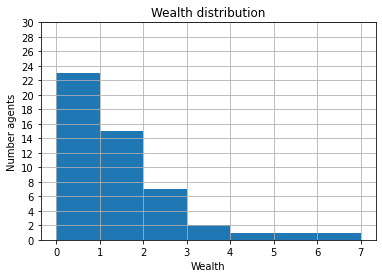
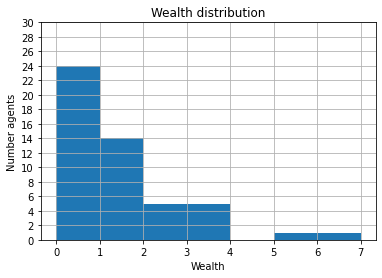
Update documentation

diff --git a/searchindex.js b/searchindex.js
@@ -1,1 +1,1 @@
-Search.setIndex({docnames:["docs/agent","docs/data_analysis","docs/installation","docs/intro","docs/jupyter","docs/math","docs/ode","docs/pandas","docs/project","docs/python","docs/references"],envversion:{"sphinx.domains.c":2,"sphinx.domains.changeset":1,"sphinx.domains.citation":1,"sphinx.domains.cpp":3,"sphinx.domains.index":1,"sphinx.domains.javascript":2,"sphinx.domains.math":2,"sphinx.domains.python":2,"sphinx.domains.rst":2,"sphinx.domains.std":2,"sphinx.ext.intersphinx":1,"sphinxcontrib.bibtex":7,sphinx:56},filenames:["docs/agent.ipynb","docs/data_analysis.ipynb","docs/installation.md","docs/intro.md","docs/jupyter.ipynb","docs/math.md","docs/ode.ipynb","docs/pandas.ipynb","docs/project.md","docs/python.ipynb","docs/references.md"],objects:{},objnames:{},objtypes:{},terms:{"0000":0,"000000":[1,7],"0001":6,"0002":9,"00233":10,"004038":1,"0160":[],"018":10,"025000":1,"033651":1,"038643":1,"050000":1,"0691":[],"07196":10,"088701":1,"092252":1,"0960":[],"0996":9,"100":[0,1,6,9],"1000":[6,9],"100000":1,"101":[0,1],"1021":10,"1038":10,"1069":[],"1070":[],"1071":[],"1072":[],"1073":[],"1111":10,"1112":[],"1200":6,"125":10,"130":6,"130360":1,"1331":[],"133728":1,"1415":9,"145":10,"1457":[],"146":[],"1472":[],"150000":1,"156618":1,"157676":1,"162":9,"1751":10,"1960":5,"1990":1,"1998":10,"1999":1,"1pigvvn":10,"200":6,"2000":[1,6],"200000":1,"2006":1,"2007":1,"2009":[1,10],"2010":[1,10],"2011":[1,10],"2013":10,"2014":1,"2015":[1,10],"2016":[1,10],"2018":[1,10],"2020":1,"2021":1,"20210722":9,"20210802":9,"2022":3,"2032":[],"205":9,"215":1,"217":1,"219":1,"2191":[],"223":1,"237":1,"2408":[],"241":1,"2438":[],"2456":0,"250":1,"250000":1,"251366":1,"253":1,"257525":1,"2610":9,"2688":[],"271600":1,"278":1,"279":1,"280747":1,"287":1,"289":1,"2899":[],"2903865095":[],"293":1,"297":[],"298":1,"2980":[],"299":1,"300":[],"3000":6,"300000":1,"301":[],"3016":[],"3058":[],"315":[],"3200":0,"324111":1,"325000":1,"3272":[],"3318":[],"333":1,"334":[],"335":[],"336":1,"337":[],"338":1,"340200":1,"341":1,"3432":[],"347122":1,"3479":[],"350000":1,"350853":7,"3512":[],"354":1,"3540":[],"3559":[],"3620":[],"3648":[],"3649":[],"365":6,"3671":[],"370426":1,"373171":1,"3736":[],"3808":[],"3843":[],"3944":[],"3952":[],"3970":[],"399070":1,"400000":1,"4024":[],"4031":[],"4104":[],"412109":1,"4122":[],"4136":[],"4179":[],"4200":[],"4224":0,"4232":[],"426484":1,"4281":9,"4416":0,"441611":1,"4488":[],"450000":1,"455102":1,"4576":[],"464575":1,"4664":[],"4744":[],"4760":[],"4792":[],"4799":[],"4832":[],"4840":[],"4968":[],"500":6,"5000":[0,6,9],"500000":[1,7],"5070":[],"509417":1,"510":[],"515":[],"5160":[],"5171":[],"518":10,"518125a":10,"520":[],"5224":[],"530978":1,"536":[],"5376":[],"539135":1,"540502":1,"546921":1,"5489":[],"555":[],"560":[],"563":10,"5631":[],"5682":[],"572":10,"575000":1,"5780":[],"5830":[],"584":10,"5972":[],"5h8mb6gs32nbvf3w8cyqwrhm0000gn":[],"600":6,"6000":[],"600000":1,"610599":1,"616996":1,"623207":1,"630942":1,"6451":[],"647525":1,"649":[],"650":[],"651":[],"652":[],"653":[],"657":[],"670":[],"675":[],"681":[],"700000":1,"701427":1,"715":9,"717":[],"717297":1,"720759":1,"724":[],"726":[],"730":[],"731":[],"733":[],"736":[],"7413":[],"750000":1,"756951":1,"767577":1,"7729":[],"777":[],"785886":1,"788136":1,"7915":10,"796997":1,"797924":1,"7989":[],"800":6,"800000":1,"8068":[],"812":[],"815979":1,"8287":[],"841860":1,"842":[],"850000":1,"871770":1,"8890":[],"898512":1,"900000":1,"9069":[],"9190":[],"935561":1,"947":[],"948":[],"949":[],"950":[],"950000":1,"950246":1,"951":[],"959443":1,"975000":1,"9991":[],"9999":9,"9c481e3f9eab":[],"case":[1,6,9],"class":[0,5,6,7],"default":[2,6,9],"export":7,"f\u00f6r":8,"final":[0,3,4,6],"float":9,"function":[0,4,6,7],"import":[0,1,3,4,5,6,7],"int":[0,9],"long":[1,8],"new":[2,8,9],"return":[0,6,9],"short":[1,6,8,9],"static":6,"super":0,"true":[0,6,7,9],"try":8,"v\u00e4gledn":8,"var":[],"while":[6,8],AZE:1,Axes:9,But:1,DHS:1,For:[1,6,9],MIS:1,Not:9,ODEs:3,One:[3,9],The:[0,1,2,3,5,6,7,8,9],Their:8,There:[0,5,6,9],These:[0,1,9],With:6,__init__:[0,6,9],_base:[],_decor:[],a_list:9,abil:8,abm:[0,3,5],about:[1,9],abov:[6,9],academia:8,acceler:1,access:[3,9],accomplish:[9,10],accord:[6,8,9],accumul:[0,6,9],act:[0,5],action:[0,8],activ:[2,8],actual:1,adapt:5,add:0,addit:[2,6,7,9],adopt:[3,9],advanc:5,advic:1,affect:[1,5],afg:1,afghanistan:1,africa:1,after:[0,9],against:1,age:1,agent:[3,5,8,9],agent_df:0,agent_idx:0,agent_report:0,agent_wealth:0,agentid:0,ago:1,air:6,alb:1,albania:1,alc_with_lowest_bp:9,alcohol:9,algorithm:9,alic:7,align:[5,6,9],alik:8,all:[0,1,3,5,8,9],allow:[0,2,3,4,6,7],allowfullscreen:[],almost:9,alongsid:1,alpha:[1,5,6],alreadi:[8,9],also:[0,1,4,5,6,7,9],altern:[6,9],alwai:9,among:1,amount:[8,9],amp:1,amsterdam:1,anaconda:2,analysi:[0,7,9,10],analyt:9,andersen:[8,10],angola:1,ani:[1,3,8],anlys:7,anoth:6,appeal:5,appear:[5,6],append:[1,6],applic:[4,5],approach:[3,5,6],approx:6,approxim:[6,8],arang:4,area:[1,3,9],arg:6,arguabl:3,argument:[6,9],around:[0,5],arrai:6,arrang:9,artist:9,as13:[3,8,10],ascend:7,asia:1,assert:[],associ:[6,9],asterisk:2,atla:1,attribut:[0,1,9],author:[3,9],auto:9,automat:[7,9],autonom:0,autosc:9,avail:[1,3,4,6,9],averag:[1,7],axes:[1,6],axhlin:[4,7],axi:9,azerbaijan:1,b_dict:9,back:5,bai98:[5,8,10],bailei:[5,8,10],bank:1,bar:[7,9],barcontain:9,barh:9,barri:8,barstack:9,base:[2,3,5,8,9],basic:[3,5,6,9],bb1220:3,beatric:7,becom:[1,3,6],been:[1,9],begin:[0,2,5,6],behav:[8,9],behavior:0,behaviour:5,belong:0,below:[0,4,9],benefit:[7,9],best:3,beta:[5,6],better:[1,3,6],between:[8,9],big:[0,6],bin:[0,1,9],binari:[],biochem:[8,10],biolog:[5,6,8],biologi:[3,10],biologist:8,biotech:10,biotechnolog:[3,5,10],bit:2,blood:8,blueprint:9,bodi:8,boil:9,bone:8,book:[3,8,9],bool:9,bordel:10,both:[0,4,5],bottom:9,bp9701269:10,browser:[2,4],build:[0,5],built:[7,9],bygg:10,c6h11oh:9,c6h5:9,calcul:[0,9],call:[6,8],can:[0,1,2,4,5,6,7,8,9],cannot:9,canva:3,capit:9,care:[],catalyst:8,catalyz:8,categori:0,cb1020:3,cbn11:[5,8,10],ceasar:7,cell:[0,1,2,8,10],cellmat:0,cellular:8,celsiu:9,center:9,central:[1,6],certain:[6,7],certifi:2,ch2oh:9,ch3:9,ch3oh:9,chanc:9,chang:[4,6],chapter:8,chart:9,checkpoint:4,chemic:[8,9],child:1,children:1,choh:9,choic:[0,3,6,9,10],choos:[1,3],chosen:9,circ:6,circl:6,clean:7,cleans:1,clear:[1,5,9],clearli:1,cleft:8,close:1,cluster:1,code:[1,2,3,9],coeffici:[0,5],coher:9,collect:[1,5,6],collector:0,color:[0,1,4,7,9],column:[0,1,7,9],colunm:1,com:10,combin:[4,9],come:[2,4,6],comma:7,command:[2,4],comment:4,common:[1,8,9],commun:[8,9],compar:[1,4,9],comparison:[6,9],compart:8,complex:[5,8,9],compon:8,compos:5,compound:8,compress:[],comput:[0,2,5,6,9,10],compute_gini:0,concern:[6,9],conda:2,conduct:[3,6],conjunct:9,connect:8,consequ:1,consid:[1,6],constant:6,construct:7,constructor:9,contain:[0,1,2,4,6,8,9],content:[],content_or_path:[],contrast:8,contribut:[3,9],control:[1,7],conveni:[6,9],convent:[1,4,9],convert:[0,4],convert_float:[],copi:4,copyright:1,core:10,corei:9,cornerston:5,correspond:[1,6,7],cost:6,could:8,count:[1,7,9],counterpart:8,countri:1,coupl:1,cours:[3,6,8],coverag:1,creat:[0,2,3,5,6,9],creation:9,cross:[0,8],csv:7,ctrl:4,cumul:9,curat:1,current:0,cursor:4,cvijov:[5,8,10],cyclohexanol:9,d2u_dx2:6,d41586:10,dai:6,damp:6,dash:4,data1:9,data2:9,data:10,data_dc:1,data_input:1,data_itn:1,databas:1,datacollect:0,datacollector:0,datafram:[0,1],datapoint:9,dataset:9,date:[3,5],date_pars:[],dator:10,david:7,dea:1,death:6,decis:[3,5],decreas:6,deepen:3,def:[0,6,9],defin:[0,6,9],degre:9,delivar:3,delta:[5,6],demograph:1,denot:6,densiti:9,depend:[2,4],depict:6,deriv:[0,4,6],describ:[1,5,6,7,9],descript:[1,3,9],design:8,detail:[4,9],determin:[0,8],develop:[8,9],deviat:9,df_dc:1,df_itn:1,diagon:0,diarcar:1,diarrhoea:[],dictionari:9,dictonari:[7,9],did:6,diff:9,differ:[0,1,3,8,9],differenti:[3,5],difficult:[1,5],diffus:[6,8],dimens:9,dimension:[6,9],dire:1,direct:9,directori:[],disciplinari:8,discoeri:1,discov:1,discret:6,discuss:3,diseas:[5,8],displai:[1,7,9],disposit:8,distinguish:8,distribut:[0,9],divid:[6,9],doan:9,doc:[2,3],document:[3,4],doi:10,doing:[4,6],dot:9,download:1,draw:9,drawn:9,drive:3,dropbox:3,dtype:[7,9],due:6,dure:1,dydt:6,dynam:[5,6],each:[0,3,9],earli:5,eastern:1,eat:8,ecaro:1,ecosystem:8,edg:9,edit:[3,4,10],effect:9,effici:9,either:9,element:[4,7,8,9],elementari:4,elif:[],els:8,emb:[],empti:[0,1,9],enabl:[1,2,6,8,9],encapsul:9,encod:[],end:[3,5,6,9],engin:[3,6,7,8,9,10],enter:[0,2,4],entiti:0,enumer:[0,9],env:2,environ:[1,2,5,8],enzym:8,epidemiolog:5,equal:[1,5,6,7,9],equat:[3,4,5],equip:9,erl:10,errno:[],error:6,esaro:1,etc:[1,4,7,9],ethanol:9,euler_step:6,europ:1,eva:10,even:9,everi:[0,3,6,8,9],everyon:1,everyth:[8,9],evid:6,evolut:6,exact:6,exam:7,examin:7,exampl:[1,3,6,9],excel:[1,7,8],excelfil:[],except:9,exchang:8,excitatori:8,exclud:9,execut:[2,9],exemplifi:[1,6],exhaust:3,exlibrisgroup:10,exp:[6,9],expect:[8,9],experi:[3,9],experiment:1,explain:[4,5],expos:0,ext:[],extens:[4,9],extract:[0,1],facil:1,fact:1,factor:9,factori:10,fals:[0,9],false_valu:[],famili:6,famou:8,far:[3,4],farg:6,fast:[1,9],faster:[8,9],favorit:9,feel:[8,9],femal:1,few:2,field:[1,5],fig:[1,4,6],fignam:9,figsiz:[1,4,6],figur:[1,4,6],file:[1,4,7,9],filenotfounderror:[],fill:[3,9],fill_between:1,filter:9,final_wealth_df:0,find:[0,6,8,9],first:[0,1,6,7,8,9],five:1,fix:9,flexibl:9,float64:7,focal:3,focu:[3,5],folder:3,follow:[1,2,4,8,9],forest:5,forg:2,form:[1,3,4,8,9],format:[3,4,7,9],former:5,formula:9,fourth:[1,6],frac:[0,5,6,9],fraction:9,frame:6,frame_numb:6,framebord:[],framework:0,free:[8,9],freeli:1,friction:6,from:[0,1,2,3,4,5,6,8,9],func:[],funcanim:6,fund:1,further:[1,4,5],futur:[3,8,10],futurewarn:[],gamma:[5,6],gather:1,gaussian:9,gca:[0,4,6,7,9],gender:1,gener:[0,3,6,8,9],genom:1,genrer:8,geometr:9,geometri:9,get:[2,4,6,9],get_agent_vars_datafram:0,get_cell_list_cont:0,get_handl:[],get_model_vars_datafram:0,get_neighborhood:0,gini:0,github:10,give:[0,9],give_monei:0,given:[1,3,6,9],gledn:10,global:0,goal:1,good:[3,6,8,9],googl:3,govern:[0,1],gradual:6,granular:5,great:9,greater:[6,9],grei:1,grid:[0,6,9],ground:8,group:[0,1,3,8],grow:1,growth:6,guid:8,guidelin:3,had:1,half:9,handl:[0,7],harmon:6,has:[0,6,7,8,9],have:[1,3,4,8,9],head:[0,1,7],header:1,health:1,heattransferwal:6,height:[0,9],help:1,herod:[3,8,10],heurist:5,hierarch:3,high:9,higher:6,highli:9,hist2d:9,hist:[0,1,9],histogram:[1,9],histogram_bin_edg:9,histtyp:9,hiv:8,hold:0,horizont:9,host:10,howev:[3,5,6,9],html:2,http:[2,10],human:[1,4],hw29067qvwk:[],hypothesi:1,idea:[1,9],ident:9,identifi:[1,6],idx_dc:1,idx_itn:1,idxmax:0,ifram:[],ignor:9,iii:[3,6],ill:1,illustr:[1,5,6],imagin:9,immedi:1,implement:[0,3,4,6,9],includ:[0,2,4,8,9],include_cent:0,incom:1,increas:[0,5,6],increment:9,independ:9,index:9,index_col:[],indic:[0,1,2,5],indispens:9,individu:[0,3,5,9],industri:[5,8,10],infect:8,infecti:5,inform:[1,8],informaion:1,inhibitori:8,initi:6,ink:8,input:9,insecticid:[],inspect:1,inspect_excel_format:[],inspir:[5,8],instanc:[5,9],instanti:0,instead:9,integ:[0,9],integr:[6,9],intel:9,interact:[0,2,5,6,8],interest:8,interfac:[0,4],intermedi:6,internet:1,interneuron:8,interpret:9,interrel:1,interv:[4,6],introduc:[1,4,6,8,9],introduct:[5,8,9,10],intuit:[1,3,9],invest:8,investig:1,invit:[6,9],involv:[1,6],ioarg:[],ipykernel_51278:[],ipykernel_57799:[],ipykernel_57878:[],ipynb:4,ipython:[],is_text:[],isinst:[],iso:1,isol:9,isopropanol:9,issu:[],item:9,iter:1,iterrow:1,itn:1,its:[0,1,4,6,8,9],itself:8,jake:[9,10],jakevdp:10,jame:10,javascript:0,jeffrei:10,jen:10,json:4,juli:1,jupyt:[1,2,9,10],jupyterlab:2,just:1,k_1:6,k_2:6,k_3:6,k_4:6,keep:3,keep_default_na:[],kei:[4,5,6,9],kept:9,kernel:9,keyword:9,kind:7,kinet:8,kit:1,knowhow:8,knowledg:6,known:[1,6,9],kth:[3,10],kurslitteratur:10,kvalitet:10,kwarg:9,label:[6,9],lambda:6,landscap:0,languag:3,larg:[1,2,8,9],last:[0,9],latent:8,latest:2,launch:0,ldot:0,lead:8,leader:3,leadership:3,learn:[1,5,8],least:3,leav:[1,4],left:[1,9],legend:[6,9],len:[0,9],length:9,leq:[0,6],less:[1,6,9],let:[0,1,6,9],level:[0,8],lib:[],librari:9,life:[1,8],lightgrei:7,like:[7,8,9],limit:[3,5,6,7,8],limt:0,line2d:6,line:[2,4,6,7,9],linear:6,lineplot:9,linewidth:[4,9],link:4,linspac:6,linux:[2,9],list:[0,1,2,3,4,7,9],live:8,load:[1,3],locat:9,log:[3,9],logic:9,look:1,loop:9,lotka:[5,6],lotka_volterra:6,low:1,lower:[1,9],lowest:9,lowest_bp:9,maco:[2,9],macroscop:5,made:[1,3,5,6,9],magnitud:9,mai:[1,4,5,6,8,9],main:5,make:[1,3,4,5,6,8],makinng:5,male:1,mammal:8,manag:[0,2],mangle_dupe_col:[],mani:8,manipul:9,manner:4,mapl:[3,10],marija:10,mark:[2,3],markdown:4,mask:9,match:[1,9],materi:[3,8],math:9,mathbf:6,mathemat:[3,4,6,8,9,10],matlab:[3,10],matmul:9,matplotlib:[0,1,2,4,6,7,9],matric:9,matrix:9,max:[0,1,7,9],max_column:1,max_wealth:0,maximum:0,mean:[1,3,6,7,9],mechan:[1,6],mediat:8,medium:6,meet:3,member:[3,5,6],membership:9,membran:8,memory_map:[],mentor:3,merg:[4,7],mesa:[2,9],metabol:8,metal:8,methanol:9,method:[0,1,3,4,7,9],metric:0,mic:1,microbi:10,microscop:5,microsoft:[3,7],mid:9,middl:1,min:[1,6,7,9],miniconda3:[],miniconda:2,minim:2,minor:3,minut:3,mixtur:8,mkl:9,mode:4,model:[3,8,9,10],model_df:0,model_report:0,moder:8,modern:5,modifi:[1,2],modul:[0,1,4,7],modulenotfounderror:[],molecul:8,moneyag:0,moneymodel:0,moor:0,more:[1,4,5,6,9],mosquito:[],most:[3,5,6,7,9],move:[0,10],move_ag:0,movement:8,msg:[],much:8,mulitpl:9,multi:[3,9],multigrid:0,multipl:[0,1,2,9],multistep:8,multpil:1,must:[1,9],myenv:2,na_filt:[],na_valu:[],name:[1,2,3,5,6,7,9],nan:1,nation:1,natur:[5,6,9,10],navig:1,nbin:9,ndarrai:9,necessari:1,need:[3,6,8,9],nest:1,net:[],neuron:8,neurotransmitt:8,never:9,new_posit:0,newtonian:6,nhigher:1,nice:1,nielsen:10,night:1,non:[0,9],none:[1,9],nonliv:8,nontrivi:6,nonzero:0,normal:[8,9],note:9,notebook:[1,2,6,9,10],notic:1,nov:[],now:2,nrow:[],num:6,num_ag:0,number:[0,1,2,5,9],number_el:6,numer:[5,9],numpi:[2,4,6,9],object:[6,7],observ:[1,8],obtain:[3,6],obviou:5,obvious:9,occupi:8,occur:[0,8],och:10,odeint:6,offer:9,offic:3,omnipres:8,onc:8,one:[0,2,3,4,6,9],one_agent_wealth_df:0,onedr:3,ones:[6,9],onli:[1,2,6,8,9],open:[2,9],openmp:9,opportun:[6,10],opt:[],optim:9,option:9,orbit:6,order:[0,6,9],ordinari:3,org:[],organ:[0,4,8],orient:6,oscil:6,other:[0,1,2,4,8,9],our:[0,1,6,8],out:[1,8,9],outcom:0,outlier:9,outsid:3,over:[1,6,9],overal:[0,8],overemphas:9,overlap:1,overleaf:3,overview:1,overwhelm:1,packag:2,page:3,pair:1,panda:[0,1,9],paragraph:4,paramet:[0,1,5,6,9],parametr:6,paramount:1,parasit:8,parse_d:[],part:[1,3],partial:6,particip:3,particl:[6,8],particular:[1,4,9],partli:1,pass:[6,7,9],past:[4,10],patch:9,patches0:9,patches1:9,patent:1,path:[],path_or_buf:[],path_or_buff:[],path_to_fil:7,pdf:[3,9],peer:3,per15:[9,10],per18:[9,10],per:[3,9],percentag:1,perform:[1,6,7,9],period:[6,8],perkel:10,permalink:10,permeas:8,person:3,phase:6,phenomena:[3,5,8],phenomenolog:5,phenylmethanol:9,pick:10,pip:2,place_ag:0,plai:6,platform:9,pllot:1,plot:[1,4],plot_upd:6,plt:[0,1,4,6,7,9],plu:9,png:9,point:[1,3,6,7,9],polygon:9,poorest:1,popul:[0,1,5,6],portabl:3,pos:0,posit:[0,4,6],possibl:[8,9],possible_step:0,postsynapt:8,potenti:[8,9],power:[5,7],powershel:2,ppm:6,practic:[1,3,6,9],preced:1,predat:[5,6],predatorpreymodel:6,predeifin:9,predict:[1,5],prei:[5,6],preliminari:3,present:[3,6,9],press:4,presynapt:8,primari:1,primo:10,principl:3,print:[0,1,7,9],printout:1,prior:1,probabl:9,problem:[8,9],process:[1,5,8],processor:9,product:[8,9],prog:10,program:[3,4,6,10],programm:1,project:[1,3,9],projektarbet:[8,10],projektledn:10,promin:6,promot:5,prompt:2,propag:6,properti:[6,9],propog:6,proport:6,protein:[1,8],prototyp:9,provid:[1,4,5,6,8,9],pseudo:9,put:1,pyplot:[0,1,4,6,7,9],python3:[],python:[0,1,2,3,4,6,10],qquad:6,quad:6,question:8,quicker:8,quit:6,r_0:5,rais:9,rand:9,random:[0,8,9],randomactiv:0,randomli:[0,3],randrang:0,rang:[0,1,3,6,9],rate:[1,6,8],rather:9,ration:3,raw:9,reach:8,reaction:8,read:[7,9],read_excel:[1,7],readabl:[4,9],readi:2,readili:[4,9],readthrough:8,real:[1,8],reason:1,recent:5,reciev:9,recommend:[2,9],record:[0,3,5],reduc:[1,6],refer:[2,3,5,6,8,9],reflect:3,regener:8,region:1,regul:8,regular:0,reilli:10,rel:9,relat:[6,8],releas:8,relev:[1,9],remain:[0,9],rememb:4,replac:6,report:[1,3],repositori:2,repres:[1,5,6,9],reproduc:9,reproduct:5,republish:1,requir:[0,6,8,9],research:1,reshap:[7,9],resourc:[],respect:[0,5,6],respons:1,restrict:1,result:[4,6,7,9],retain:8,retriev:2,reveal:[6,9],revers:9,review:[3,5,8],revolut:1,rice:9,rich:3,richest:1,right:9,righthand:9,risk:5,rk4:6,role:[3,6],ronald:10,rosa:1,routin:9,row:[0,1],row_dc:1,row_itn:1,rule:[5,8],run:[1,2,4,6],rural:1,rwidth:9,sai:7,same:[0,1,9],satur:8,save:[1,4,6,9],savefig:9,scalar:[6,9],scale:[5,9],sceinc:1,schafer:9,schedul:0,scheme:6,schwenck:[8,10],scienc:[1,6,9],scientif:[1,2],scientist:10,scipi:[2,6,9],scott:9,script:9,search:[1,9],sec:[1,6],second:[1,3,6,9,10],section:[0,4],see:[1,3,5,9],seed:9,seek:1,seemingli:5,seen:6,select:[3,7,8],self:[0,3,6,9],semant:9,sens:[3,8],separ:[3,8,9],separatp:7,seper:4,sequenc:[0,9],sergio:10,seri:[0,9],serv:[6,8],server:0,set:[1,3,5,6,9],set_data:6,set_opt:1,set_text:6,setp:[0,4,6,7,9],sever:[1,3,7,9],sh09:[3,8,10],shall:6,shape:[1,9],share:[3,9],sheet1:7,sheet:[1,3,7],sheet_nam:[1,7],shift:[4,9],shonkwil:[3,8,10],shorter:9,should:[1,2,3,6,9],should_clos:[],show:[0,1,4,6,7,9],side:9,sight:6,sigma:9,signal:8,significantli:9,similar:8,simpl:[1,9],simplest:8,simul:5,sin:[4,6],singl:[0,1,5,9],sit:8,site:[],situat:1,size:1,skill:[3,8],skillset:8,skipfoot:[],skiprow:1,sleep:1,slept:1,slide:3,slower:9,slowli:8,small:2,smaller:[6,9],soft:8,softwar:[6,9],solid:6,solubl:8,solut:[3,9],solv:6,some:[1,6],someon:9,sort:[0,7],sort_valu:7,sought:1,sourc:[1,2,8,9],south:1,southern:1,space:[0,6,8,9],span:8,specif:[0,8,9],specifi:[5,9],split:4,spread:[1,5],spreadsheet:1,spring:6,springer:10,sqrt:9,squeez:[],src:[],stabil:[1,6],stabl:[6,9],stack:9,stacklevel:[],standard:[7,9],start:[0,1,2,4,9],state:[1,6,9],statement:[0,2,9],statist:[1,7],std:[1,7,9],step:[0,6,9],step_idx:0,stepfil:9,stochast:5,stone:9,storage_opt:[],store:[6,9],str:9,straighforward:6,straightforward:[1,6],strategi:9,strength:[1,5],string:9,strongli:9,structur:0,student:[3,7,8,10],studentlitteratur:10,studi:[1,6,8],sturg:9,substrat:8,suggest:4,suit:3,sum:[0,8,9],sum_:0,summar:5,superior:6,support:[2,9],survei:1,synapt:8,syntax:9,system:[0,1,2,5,6,8],t_0:6,t_insid:6,t_outsid:6,tab:4,tail:0,take:[3,6,8,9],target:3,task:9,team:[3,9],technic:[1,3],teknik:10,tell:1,temperatur:[6,8],tempt:9,tend:8,term:[6,9],termin:2,test:[1,9],text:[6,9],than:[1,6,8,9],thei:[1,2,6,8],them:[0,3,8],themselv:0,thereaft:[1,6],therebi:1,therefor:[1,3],thermal:6,thi:[0,1,2,3,4,6,7,8],thick:6,thing:1,think:8,third:6,those:[5,7,8],thought:7,thousand:[],thread:9,three:[0,1,3,4,8],through:1,thu:[3,6,8],time:[0,6,8,9],time_text:6,tissu:8,titl:[0,3,4,6,8,9],tn_cdi_springer_books_10_1007_978_0_387_70984_0:10,todai:1,togeth:[6,9],tool:[0,3,7,9],top:9,topic:8,topolog:5,total:[0,9],tour:[9,10],toward:[3,9,10],traceback:[],track:[5,8],tradit:9,train:[3,8],transform:[1,6,8],transmembran:8,transmiss:8,transport:8,transpos:9,treat:[8,9],treatment:[1,8],tree:5,triangl:9,trigger:8,trivial:6,true_valu:[],tupl:9,turn:[4,6],turnov:8,tutori:9,twinx:6,two:[0,1,3,5,6,9],tyical:9,type:[1,4,8],typic:[1,2,5,6,8,9],uncatalyz:8,under:[1,9],underli:[7,9],understand:[0,3],unequ:9,unfil:9,uniqu:[1,4],unique_id:0,unit:0,unless:9,updat:6,upload:3,upon:3,upper:[1,9],uptak:8,urban:1,url:10,use:[0,1,3,4,5,6,8,9],usecol:1,used:[0,3,6,8,9],useful:[1,2,9],user:[3,6,9],uses:9,using:[0,3,4,7,9],usual:[6,9],util:[],vai:6,valu:[0,1,6,7,9],valuabl:[1,8],valueerror:[],van16:[9,10],vanderpla:[9,10],variabl:[1,6],variat:[1,6],variou:[5,8],vast:9,vector:9,veloc:6,verbos:[],veri:[1,3,6,8],versatil:3,version:[2,3],vertic:9,via:[4,9],video:9,view:1,viru:8,visibl:1,visual:[0,9],volterra:[5,6],w3school:9,wai:[1,7,9],walk:0,warn:[],watch:9,water:8,weak:5,wealth:0,web:[2,4,9],websit:2,week:1,weight:9,welcom:3,well:[3,8],were:1,what:0,when:[6,9],where:[0,1,5,6,9],whether:8,which:[0,1,2,3,5,6,8,9],whirlwind:[9,10],whirlwindtourofpython:10,who:1,whom:1,why:10,wide:[3,6],widespread:3,width:[0,9],window:[2,9],wish:1,without:1,word:[0,9],work:[2,3,5,6,7,9],world:1,would:[1,7,9],wrangl:7,wrapper:[],write:6,written:[2,4,5,6,8,9],www:10,x_i:0,xlabel:[0,1,4,6,9],xlim:[0,1,4,6,9],xls:7,xlsx:1,xtick:0,xticklabel:7,y0_l:6,y_1:6,y_2:6,year:[1,3],yet:3,yield:9,ylabel:[0,1,4,6,7,9],ylim:[0,1,4,6,9],you:[1,2,3,4,7,8,9],your:[0,2,3,4,7,8,9],youtub:[],ytick:0,zero:[6,9],zlib:2},titles:["Agent-based modeling","Model assessment","Software installation","Introduction","Jupyter notebook","Mathematical modeling","Differential equations","Pandas","Project work","Python for this course","References"],titleterms:{"class":9,"function":9,"import":9,ODE:6,ODEs:6,The:[],Use:1,agent:0,analys:7,analysi:[1,6],anim:6,arrai:9,assess:1,auto:4,base:0,bonu:6,care:1,cb1020:[],cell:4,children:[],code:4,collect:0,commun:3,complet:4,condit:9,content:3,correl:1,cours:9,creat:7,data:[0,1,7,9],datafram:7,dataset:1,deliver:3,diarrhoea:1,dictionari:7,differ:6,differenti:6,document:9,end:[],equat:6,essenti:4,euler:6,exampl:4,explicit:6,fdm:6,figur:9,finit:6,form:6,from:7,get:1,heat:6,help:9,implicit:6,insecticid:1,instal:2,introduct:3,iter:9,itn:[],jupyt:4,keyboard:4,know:1,kutta:6,lectur:[],librari:6,malaria:1,manipul:7,materi:6,mathemat:5,mesa:0,method:6,model:[0,1,5,6],modul:9,mosquito:1,motiv:9,necess:9,net:1,norman:[],notebook:4,numer:6,object:9,open:1,oper:9,ordinari:6,organ:3,orient:9,panda:7,paramet:[],patrick:[],plot:[0,6,7,9],program:9,project:8,propos:8,python:[7,9],refer:10,result:0,run:0,rung:6,seek:[],shortcut:4,simul:0,softwar:2,solut:6,solver:6,some:9,spreadsheet:7,store:0,text:4,thi:9,through:6,tip:4,transfer:6,treat:1,type:9,unicef:1,use:[],view:[],wall:6,work:8,your:1}})
+Search.setIndex({docnames:["docs/agent","docs/data_analysis","docs/installation","docs/intro","docs/jupyter","docs/math","docs/ode","docs/pandas","docs/project","docs/python","docs/references"],envversion:{"sphinx.domains.c":2,"sphinx.domains.changeset":1,"sphinx.domains.citation":1,"sphinx.domains.cpp":3,"sphinx.domains.index":1,"sphinx.domains.javascript":2,"sphinx.domains.math":2,"sphinx.domains.python":2,"sphinx.domains.rst":2,"sphinx.domains.std":2,"sphinx.ext.intersphinx":1,"sphinxcontrib.bibtex":7,sphinx:56},filenames:["docs/agent.ipynb","docs/data_analysis.ipynb","docs/installation.md","docs/intro.md","docs/jupyter.ipynb","docs/math.md","docs/ode.ipynb","docs/pandas.ipynb","docs/project.md","docs/python.ipynb","docs/references.md"],objects:{},objnames:{},objtypes:{},terms:{"0000":0,"000000":[1,7],"0001":6,"0002":9,"00233":10,"004038":1,"018":10,"025000":1,"033651":1,"038643":1,"050000":1,"07196":10,"088701":1,"092252":1,"0991":9,"0996":9,"100":[0,1,6,9],"1000":[6,9],"100000":1,"101":[0,1],"1021":10,"1038":10,"1111":10,"1200":6,"125":10,"130":6,"130360":1,"133728":1,"1415":9,"145":10,"150000":1,"156618":1,"157676":1,"162":9,"1751":10,"1960":5,"1990":1,"1998":10,"1999":1,"1pigvvn":10,"200":6,"2000":[1,6],"200000":1,"2006":1,"2007":1,"2009":[1,10],"2010":[1,10],"2011":[1,10],"2013":10,"2014":1,"2015":[1,10],"2016":[1,10],"2018":[1,10],"2020":1,"2021":1,"20210722":9,"20210802":9,"2022":3,"205":9,"215":1,"217":1,"219":1,"223":1,"237":1,"241":1,"250":1,"250000":1,"251366":1,"253":1,"257525":1,"2688":0,"271600":1,"278":1,"279":1,"280747":1,"287":1,"289":1,"293":1,"298":1,"299":1,"3000":6,"300000":1,"324111":1,"325000":1,"333":1,"336":1,"338":1,"340200":1,"341":1,"347122":1,"350000":1,"350853":7,"354":1,"3609":9,"365":6,"370426":1,"373171":1,"399070":1,"400000":1,"4088":0,"412109":1,"426484":1,"4296":0,"441611":1,"450000":1,"455102":1,"464575":1,"4736":0,"500":6,"5000":[0,6,9],"500000":[1,7],"509417":1,"518":10,"518125a":10,"530978":1,"539135":1,"540502":1,"546921":1,"563":10,"572":10,"575000":1,"584":10,"600":6,"600000":1,"610599":1,"616996":1,"623207":1,"630942":1,"647525":1,"700000":1,"701427":1,"717297":1,"720759":1,"734":9,"750000":1,"756951":1,"767577":1,"785886":1,"788136":1,"7915":10,"796997":1,"797924":1,"800":6,"800000":1,"815979":1,"841860":1,"850000":1,"871770":1,"898512":1,"900000":1,"935561":1,"950000":1,"950246":1,"959443":1,"975000":1,"9999":9,"case":[1,6,9],"class":[0,5,6,7],"default":[2,6,9],"export":7,"f\u00f6r":8,"final":[0,3,4,6],"float":9,"function":[0,4,6,7],"import":[0,1,3,4,5,6,7],"int":[0,9],"long":[1,8],"new":[2,8,9],"return":[0,6,9],"short":[1,6,8,9],"static":6,"super":0,"true":[0,6,7,9],"try":8,"v\u00e4gledn":8,"while":[6,8],AZE:1,Axes:9,But:1,DHS:1,For:[1,6,9],MIS:1,Not:9,ODEs:3,One:[3,9],The:[0,1,2,3,5,6,7,8,9],Their:8,There:[0,5,6,9],These:[0,1,9],With:6,__init__:[0,6,9],a_list:9,abil:8,abm:[0,3,5],about:[1,9],abov:[6,9],academia:8,acceler:1,access:[3,9],accomplish:[9,10],accord:[6,8,9],accumul:[0,6,9],act:[0,5],action:[0,8],activ:[2,8],actual:1,adapt:5,add:0,addit:[2,6,7,9],adopt:[3,9],advanc:5,advic:1,affect:[1,5],afg:1,afghanistan:1,africa:1,after:[0,9],against:1,age:1,agent:[3,5,8,9],agent_df:0,agent_idx:0,agent_report:0,agent_wealth:0,agentid:0,ago:1,air:6,alb:1,albania:1,alc_with_lowest_bp:9,alcohol:9,algorithm:9,alic:7,align:[5,6,9],alik:8,all:[0,1,3,5,8,9],allow:[0,2,3,4,6,7],almost:9,alongsid:1,alpha:[1,5,6],alreadi:[8,9],also:[0,1,4,5,6,7,9],altern:[6,9],alwai:9,among:1,amount:[8,9],amp:1,amsterdam:1,anaconda:2,analysi:[0,7,9,10],analyt:9,andersen:[8,10],angola:1,ani:[1,3,8],anlys:7,anoth:6,appeal:5,appear:[5,6],append:[1,6],applic:[4,5],approach:[3,5,6],approx:6,approxim:[6,8],arang:4,area:[1,3,9],arg:6,arguabl:3,argument:[6,9],around:[0,5],arrai:6,arrang:9,artist:9,as13:[3,8,10],ascend:7,asia:1,associ:[6,9],asterisk:2,atla:1,attribut:[0,1,9],author:[3,9],auto:9,automat:[7,9],autonom:0,autosc:9,avail:[1,3,4,6,9],averag:[1,7],axes:[1,6],axhlin:[4,7],axi:9,azerbaijan:1,b_dict:9,back:5,bai98:[5,8,10],bailei:[5,8,10],bank:1,bar:[7,9],barcontain:9,barh:9,barri:8,barstack:9,base:[2,3,5,8,9],basic:[3,5,6,9],bb1220:3,beatric:7,becom:[1,3,6],been:[1,9],begin:[0,2,5,6],behav:[8,9],behavior:0,behaviour:5,belong:0,below:[0,4,9],benefit:[7,9],best:3,beta:[5,6],better:[1,3,6],between:[8,9],big:[0,6],bin:[0,1,9],biochem:[8,10],biolog:[5,6,8],biologi:[3,10],biologist:8,biotech:10,biotechnolog:[3,5,10],bit:2,blood:8,blueprint:9,bodi:8,boil:9,bone:8,book:[3,8,9],bool:9,bordel:10,both:[0,4,5],bottom:9,bp9701269:10,browser:[2,4],build:[0,5],built:[7,9],bygg:10,c6h11oh:9,c6h5:9,calcul:[0,9],call:[6,8],can:[0,1,2,4,5,6,7,8,9],cannot:9,canva:3,capit:9,catalyst:8,catalyz:8,categori:0,cb1020:3,cbn11:[5,8,10],ceasar:7,cell:[0,1,2,8,10],cellmat:0,cellular:8,celsiu:9,center:9,central:[1,6],certain:[6,7],certifi:2,ch2oh:9,ch3:9,ch3oh:9,chanc:9,chang:[4,6],chapter:8,chart:9,checkpoint:4,chemic:[8,9],child:1,children:1,choh:9,choic:[0,3,6,9,10],choos:[1,3],chosen:9,circ:6,circl:6,clean:7,cleans:1,clear:[1,5,9],clearli:1,cleft:8,close:1,cluster:1,code:[1,2,3,9],coeffici:[0,5],coher:9,collect:[1,5,6],collector:0,color:[0,1,4,7,9],column:[0,1,7,9],colunm:1,com:10,combin:[4,9],come:[2,4,6],comma:7,command:[2,4],comment:4,common:[1,8,9],commun:[8,9],compar:[1,4,9],comparison:[6,9],compart:8,complex:[5,8,9],compon:8,compos:5,compound:8,comput:[0,2,5,6,9,10],compute_gini:0,concern:[6,9],conda:2,conduct:[3,6],conjunct:9,connect:8,consequ:1,consid:[1,6],constant:6,construct:7,constructor:9,contain:[0,1,2,4,6,8,9],contrast:8,contribut:[3,9],control:[1,7],conveni:[6,9],convent:[1,4,9],convert:[0,4],copi:4,copyright:1,core:10,corei:9,cornerston:5,correspond:[1,6,7],cost:6,could:8,count:[1,7,9],counterpart:8,countri:1,coupl:1,cours:[3,6,8],coverag:1,creat:[0,2,3,5,6,9],creation:9,cross:[0,8],csv:7,ctrl:4,cumul:9,curat:1,current:0,cursor:4,cvijov:[5,8,10],cyclohexanol:9,d2u_dx2:6,d41586:10,dai:6,damp:6,dash:4,data1:9,data2:9,data:10,data_dc:1,data_input:1,data_itn:1,databas:1,datacollect:0,datacollector:0,datafram:[0,1],datapoint:9,dataset:9,date:[3,5],dator:10,david:7,dea:1,death:6,decis:[3,5],decreas:6,deepen:3,def:[0,6,9],defin:[0,6,9],degre:9,delivar:3,delta:[5,6],demograph:1,denot:6,densiti:9,depend:[2,4],depict:6,deriv:[0,4,6],describ:[1,5,6,7,9],descript:[1,3,9],design:8,detail:[4,9],determin:[0,8],develop:[8,9],deviat:9,df_dc:1,df_itn:1,diagon:0,diarcar:1,dictionari:9,dictonari:[7,9],did:6,diff:9,differ:[0,1,3,8,9],differenti:[3,5],difficult:[1,5],diffus:[6,8],dimens:9,dimension:[6,9],dire:1,direct:9,disciplinari:8,discoeri:1,discov:1,discret:6,discuss:3,diseas:[5,8],displai:[1,7,9],disposit:8,distinguish:8,distribut:[0,9],divid:[6,9],doan:9,doc:[2,3],document:[3,4],doi:10,doing:[4,6],dot:9,download:1,draw:9,drawn:9,drive:3,dropbox:3,dtype:[7,9],due:6,dure:1,dydt:6,dynam:[5,6],each:[0,3,9],earli:5,eastern:1,eat:8,ecaro:1,ecosystem:8,edg:9,edit:[3,4,10],effect:9,effici:9,either:9,element:[4,7,8,9],elementari:4,els:8,empti:[0,1,9],enabl:[1,2,6,8,9],encapsul:9,end:[3,5,6,9],engin:[3,6,7,8,9,10],enter:[0,2,4],entiti:0,enumer:[0,9],env:2,environ:[1,2,5,8],enzym:8,epidemiolog:5,equal:[1,5,6,7,9],equat:[3,4,5],equip:9,erl:10,error:6,esaro:1,etc:[1,4,7,9],ethanol:9,euler_step:6,europ:1,eva:10,even:9,everi:[0,3,6,8,9],everyon:1,everyth:[8,9],evid:6,evolut:6,exact:6,exam:7,examin:7,exampl:[1,3,6,9],excel:[1,7,8],except:9,exchang:8,excitatori:8,exclud:9,execut:[2,9],exemplifi:[1,6],exhaust:3,exlibrisgroup:10,exp:[6,9],expect:[8,9],experi:[3,9],experiment:1,explain:[4,5],expos:0,extens:[4,9],extract:[0,1],facil:1,fact:1,factor:9,factori:10,fals:[0,9],famili:6,famou:8,far:[3,4],farg:6,fast:[1,9],faster:[8,9],favorit:9,feel:[8,9],femal:1,few:2,field:[1,5],fig:[1,4,6],fignam:9,figsiz:[1,4,6],figur:[1,4,6],file:[1,4,7,9],fill:[3,9],fill_between:1,filter:9,final_wealth_df:0,find:[0,6,8,9],first:[0,1,6,7,8,9],five:1,fix:9,flexibl:9,float64:7,focal:3,focu:[3,5],folder:3,follow:[1,2,4,8,9],forest:5,forg:2,form:[1,3,4,8,9],format:[3,4,7,9],former:5,formula:9,fourth:[1,6],frac:[0,5,6,9],fraction:9,frame:6,frame_numb:6,framework:0,free:[8,9],freeli:1,friction:6,from:[0,1,2,3,4,5,6,8,9],funcanim:6,fund:1,further:[1,4,5],futur:[3,8,10],gamma:[5,6],gather:1,gaussian:9,gca:[0,4,6,7,9],gender:1,gener:[0,3,6,8,9],genom:1,genrer:8,geometr:9,geometri:9,get:[2,4,6,9],get_agent_vars_datafram:0,get_cell_list_cont:0,get_model_vars_datafram:0,get_neighborhood:0,gini:0,github:10,give:[0,9],give_monei:0,given:[1,3,6,9],gledn:10,global:0,goal:1,good:[3,6,8,9],googl:3,govern:[0,1],gradual:6,granular:5,great:9,greater:[6,9],grei:1,grid:[0,6,9],ground:8,group:[0,1,3,8],grow:1,growth:6,guid:8,guidelin:3,had:1,half:9,handl:[0,7],harmon:6,has:[0,6,7,8,9],have:[1,3,4,8,9],head:[0,1,7],header:1,health:1,heattransferwal:6,height:[0,9],help:1,herod:[3,8,10],heurist:5,hierarch:3,high:9,higher:6,highli:9,hist2d:9,hist:[0,1,9],histogram:[1,9],histogram_bin_edg:9,histtyp:9,hiv:8,hold:0,horizont:9,host:10,howev:[3,5,6,9],html:2,http:[2,10],human:[1,4],hypothesi:1,idea:[1,9],ident:9,identifi:[1,6],idx_dc:1,idx_itn:1,idxmax:0,ignor:9,iii:[3,6],ill:1,illustr:[1,5,6],imagin:9,immedi:1,implement:[0,3,4,6,9],includ:[0,2,4,8,9],include_cent:0,incom:1,increas:[0,5,6],increment:9,independ:9,index:9,indic:[0,1,2,5],indispens:9,individu:[0,3,5,9],industri:[5,8,10],infect:8,infecti:5,inform:[1,8],informaion:1,inhibitori:8,initi:6,ink:8,input:9,inspect:1,inspir:[5,8],instanc:[5,9],instanti:0,instead:9,integ:[0,9],integr:[6,9],intel:9,interact:[0,2,5,6,8],interest:8,interfac:[0,4],intermedi:6,internet:1,interneuron:8,interpret:9,interrel:1,interv:[4,6],introduc:[1,4,6,8,9],introduct:[5,8,9,10],intuit:[1,3,9],invest:8,investig:1,invit:[6,9],involv:[1,6],ipynb:4,iso:1,isol:9,isopropanol:9,item:9,iter:1,iterrow:1,itn:1,its:[0,1,4,6,8,9],itself:8,jake:[9,10],jakevdp:10,jame:10,javascript:0,jeffrei:10,jen:10,json:4,juli:1,jupyt:[1,2,9,10],jupyterlab:2,just:1,k_1:6,k_2:6,k_3:6,k_4:6,keep:3,kei:[4,5,6,9],kept:9,kernel:9,keyword:9,kind:7,kinet:8,kit:1,knowhow:8,knowledg:6,known:[1,6,9],kth:[3,10],kurslitteratur:10,kvalitet:10,kwarg:9,label:[6,9],lambda:6,landscap:0,languag:3,larg:[1,2,8,9],last:[0,9],latent:8,latest:2,launch:0,ldot:0,lead:8,leader:3,leadership:3,learn:[1,5,8],least:3,leav:[1,4],left:[1,9],legend:[6,9],len:[0,9],length:9,leq:[0,6],less:[1,6,9],let:[0,1,6,9],level:[0,8],librari:9,life:[1,8],lightgrei:7,like:[7,8,9],limit:[3,5,6,7,8],limt:0,line2d:6,line:[2,4,6,7,9],linear:6,lineplot:9,linewidth:[4,9],link:4,linspac:6,linux:[2,9],list:[0,1,2,3,4,7,9],live:8,load:[1,3],locat:9,log:[3,9],logic:9,look:1,loop:9,lotka:[5,6],lotka_volterra:6,low:1,lower:[1,9],lowest:9,lowest_bp:9,maco:[2,9],macroscop:5,made:[1,3,5,6,9],magnitud:9,mai:[1,4,5,6,8,9],main:5,make:[1,3,4,5,6,8],makinng:5,male:1,mammal:8,manag:[0,2],mani:8,manipul:9,manner:4,mapl:[3,10],marija:10,mark:[2,3],markdown:4,mask:9,match:[1,9],materi:[3,8],math:9,mathbf:6,mathemat:[3,4,6,8,9,10],matlab:[3,10],matmul:9,matplotlib:[0,1,2,4,6,7,9],matric:9,matrix:9,max:[0,1,7,9],max_column:1,max_wealth:0,maximum:0,mean:[1,3,6,7,9],mechan:[1,6],mediat:8,medium:6,meet:3,member:[3,5,6],membership:9,membran:8,mentor:3,merg:[4,7],mesa:[2,9],metabol:8,metal:8,methanol:9,method:[0,1,3,4,7,9],metric:0,mic:1,microbi:10,microscop:5,microsoft:[3,7],mid:9,middl:1,min:[1,6,7,9],miniconda:2,minim:2,minor:3,minut:3,mixtur:8,mkl:9,mode:4,model:[3,8,9,10],model_df:0,model_report:0,moder:8,modern:5,modifi:[1,2],modul:[0,1,4,7],molecul:8,moneyag:0,moneymodel:0,moor:0,more:[1,4,5,6,9],most:[3,5,6,7,9],move:[0,10],move_ag:0,movement:8,much:8,mulitpl:9,multi:[3,9],multigrid:0,multipl:[0,1,2,9],multistep:8,multpil:1,must:[1,9],myenv:2,name:[1,2,3,5,6,7,9],nan:1,nation:1,natur:[5,6,9,10],navig:1,nbin:9,ndarrai:9,necessari:1,need:[3,6,8,9],nest:1,neuron:8,neurotransmitt:8,never:9,new_posit:0,newtonian:6,nhigher:1,nice:1,nielsen:10,night:1,non:[0,9],none:[1,9],nonliv:8,nontrivi:6,nonzero:0,normal:[8,9],note:9,notebook:[1,2,6,9,10],notic:1,now:2,num:6,num_ag:0,number:[0,1,2,5,9],number_el:6,numer:[5,9],numpi:[2,4,6,9],object:[6,7],observ:[1,8],obtain:[3,6],obviou:5,obvious:9,occupi:8,occur:[0,8],och:10,odeint:6,offer:9,offic:3,omnipres:8,onc:8,one:[0,2,3,4,6,9],one_agent_wealth_df:0,onedr:3,ones:[6,9],onli:[1,2,6,8,9],open:[2,9],openmp:9,opportun:[6,10],optim:9,option:9,orbit:6,order:[0,6,9],ordinari:3,organ:[0,4,8],orient:6,oscil:6,other:[0,1,2,4,8,9],our:[0,1,6,8],out:[1,8,9],outcom:0,outlier:9,outsid:3,over:[1,6,9],overal:[0,8],overemphas:9,overlap:1,overleaf:3,overview:1,overwhelm:1,packag:2,page:3,pair:1,panda:[0,1,9],paragraph:4,paramet:[0,1,5,6,9],parametr:6,paramount:1,parasit:8,part:[1,3],partial:6,particip:3,particl:[6,8],particular:[1,4,9],partli:1,pass:[6,7,9],past:[4,10],patch:9,patches0:9,patches1:9,patent:1,path_to_fil:7,pdf:[3,9],peer:3,per15:[9,10],per18:[9,10],per:[3,9],percentag:1,perform:[1,6,7,9],period:[6,8],perkel:10,permalink:10,permeas:8,person:3,phase:6,phenomena:[3,5,8],phenomenolog:5,phenylmethanol:9,pick:10,pip:2,place_ag:0,plai:6,platform:9,pllot:1,plot:[1,4],plot_upd:6,plt:[0,1,4,6,7,9],plu:9,png:9,point:[1,3,6,7,9],polygon:9,poorest:1,popul:[0,1,5,6],portabl:3,pos:0,posit:[0,4,6],possibl:[8,9],possible_step:0,postsynapt:8,potenti:[8,9],power:[5,7],powershel:2,ppm:6,practic:[1,3,6,9],preced:1,predat:[5,6],predatorpreymodel:6,predeifin:9,predict:[1,5],prei:[5,6],preliminari:3,present:[3,6,9],press:4,presynapt:8,primari:1,primo:10,principl:3,print:[0,1,7,9],printout:1,prior:1,probabl:9,problem:[8,9],process:[1,5,8],processor:9,product:[8,9],prog:10,program:[3,4,6,10],programm:1,project:[1,3,9],projektarbet:[8,10],projektledn:10,promin:6,promot:5,prompt:2,propag:6,properti:[6,9],propog:6,proport:6,protein:[1,8],prototyp:9,provid:[1,4,5,6,8,9],pseudo:9,put:1,pyplot:[0,1,4,6,7,9],python:[0,1,2,3,4,6,10],qquad:6,quad:6,question:8,quicker:8,quit:6,r_0:5,rais:9,rand:9,random:[0,8,9],randomactiv:0,randomli:[0,3],randrang:0,rang:[0,1,3,6,9],rate:[1,6,8],rather:9,ration:3,raw:9,reach:8,reaction:8,read:[7,9],read_excel:[1,7],readabl:[4,9],readi:2,readili:[4,9],readthrough:8,real:[1,8],reason:1,recent:5,reciev:9,recommend:[2,9],record:[0,3,5],reduc:[1,6],refer:[2,3,5,6,8,9],reflect:3,regener:8,region:1,regul:8,regular:0,reilli:10,rel:9,relat:[6,8],releas:8,relev:[1,9],remain:[0,9],rememb:4,replac:6,report:[1,3],repositori:2,repres:[1,5,6,9],reproduc:9,reproduct:5,republish:1,requir:[0,6,8,9],research:1,reshap:[7,9],respect:[0,5,6],respons:1,restrict:1,result:[4,6,7,9],retain:8,retriev:2,reveal:[6,9],revers:9,review:[3,5,8],revolut:1,rice:9,rich:3,richest:1,right:9,righthand:9,risk:5,rk4:6,role:[3,6],ronald:10,rosa:1,routin:9,row:[0,1],row_dc:1,row_itn:1,rule:[5,8],run:[1,2,4,6],rural:1,rwidth:9,sai:7,same:[0,1,9],satur:8,save:[1,4,6,9],savefig:9,scalar:[6,9],scale:[5,9],sceinc:1,schafer:9,schedul:0,scheme:6,schwenck:[8,10],scienc:[1,6,9],scientif:[1,2],scientist:10,scipi:[2,6,9],scott:9,script:9,search:[1,9],sec:[1,6],second:[1,3,6,9,10],section:[0,4],see:[1,3,5,9],seed:9,seek:1,seemingli:5,seen:6,select:[3,7,8],self:[0,3,6,9],semant:9,sens:[3,8],separ:[3,8,9],separatp:7,seper:4,sequenc:[0,9],sergio:10,seri:[0,9],serv:[6,8],server:0,set:[1,3,5,6,9],set_data:6,set_opt:1,set_text:6,setp:[0,4,6,7,9],sever:[1,3,7,9],sh09:[3,8,10],shall:6,shape:[1,9],share:[3,9],sheet1:7,sheet:[1,3,7],sheet_nam:[1,7],shift:[4,9],shonkwil:[3,8,10],shorter:9,should:[1,2,3,6,9],show:[0,1,4,6,7,9],side:9,sight:6,sigma:9,signal:8,significantli:9,similar:8,simpl:[1,9],simplest:8,simul:5,sin:[4,6],singl:[0,1,5,9],sit:8,situat:1,size:1,skill:[3,8],skillset:8,skiprow:1,sleep:1,slept:1,slide:3,slower:9,slowli:8,small:2,smaller:[6,9],soft:8,softwar:[6,9],solid:6,solubl:8,solut:[3,9],solv:6,some:[1,6],someon:9,sort:[0,7],sort_valu:7,sought:1,sourc:[1,2,8,9],south:1,southern:1,space:[0,6,8,9],span:8,specif:[0,8,9],specifi:[5,9],split:4,spread:[1,5],spreadsheet:1,spring:6,springer:10,sqrt:9,stabil:[1,6],stabl:[6,9],stack:9,standard:[7,9],start:[0,1,2,4,9],state:[1,6,9],statement:[0,2,9],statist:[1,7],std:[1,7,9],step:[0,6,9],step_idx:0,stepfil:9,stochast:5,stone:9,store:[6,9],str:9,straighforward:6,straightforward:[1,6],strategi:9,strength:[1,5],string:9,strongli:9,structur:0,student:[3,7,8,10],studentlitteratur:10,studi:[1,6,8],sturg:9,substrat:8,suggest:4,suit:3,sum:[0,8,9],sum_:0,summar:5,superior:6,support:[2,9],survei:1,synapt:8,syntax:9,system:[0,1,2,5,6,8],t_0:6,t_insid:6,t_outsid:6,tab:4,tail:0,take:[3,6,8,9],target:3,task:9,team:[3,9],technic:[1,3],teknik:10,tell:1,temperatur:[6,8],tempt:9,tend:8,term:[6,9],termin:2,test:[1,9],text:[6,9],than:[1,6,8,9],thei:[1,2,6,8],them:[0,3,8],themselv:0,thereaft:[1,6],therebi:1,therefor:[1,3],thermal:6,thi:[0,1,2,3,4,6,7,8],thick:6,thing:1,think:8,third:6,those:[5,7,8],thought:7,thread:9,three:[0,1,3,4,8],through:1,thu:[3,6,8],time:[0,6,8,9],time_text:6,tissu:8,titl:[0,3,4,6,8,9],tn_cdi_springer_books_10_1007_978_0_387_70984_0:10,todai:1,togeth:[6,9],tool:[0,3,7,9],top:9,topic:8,topolog:5,total:[0,9],tour:[9,10],toward:[3,9,10],track:[5,8],tradit:9,train:[3,8],transform:[1,6,8],transmembran:8,transmiss:8,transport:8,transpos:9,treat:[8,9],treatment:[1,8],tree:5,triangl:9,trigger:8,trivial:6,tupl:9,turn:[4,6],turnov:8,tutori:9,twinx:6,two:[0,1,3,5,6,9],tyical:9,type:[1,4,8],typic:[1,2,5,6,8,9],uncatalyz:8,under:[1,9],underli:[7,9],understand:[0,3],unequ:9,unfil:9,uniqu:[1,4],unique_id:0,unit:0,unless:9,updat:6,upload:3,upon:3,upper:[1,9],uptak:8,urban:1,url:10,use:[0,1,3,4,5,6,8,9],usecol:1,used:[0,3,6,8,9],useful:[1,2,9],user:[3,6,9],uses:9,using:[0,3,4,7,9],usual:[6,9],vai:6,valu:[0,1,6,7,9],valuabl:[1,8],van16:[9,10],vanderpla:[9,10],variabl:[1,6],variat:[1,6],variou:[5,8],vast:9,vector:9,veloc:6,veri:[1,3,6,8],versatil:3,version:[2,3],vertic:9,via:[4,9],video:9,view:1,viru:8,visibl:1,visual:[0,9],volterra:[5,6],w3school:9,wai:[1,7,9],walk:0,watch:9,water:8,weak:5,wealth:0,web:[2,4,9],websit:2,week:1,weight:9,welcom:3,well:[3,8],were:1,what:0,when:[6,9],where:[0,1,5,6,9],whether:8,which:[0,1,2,3,5,6,8,9],whirlwind:[9,10],whirlwindtourofpython:10,who:1,whom:1,why:10,wide:[3,6],widespread:3,width:[0,9],window:[2,9],wish:1,without:1,word:[0,9],work:[2,3,5,6,7,9],world:1,would:[1,7,9],wrangl:7,write:6,written:[2,4,5,6,8,9],www:10,x_i:0,xlabel:[0,1,4,6,9],xlim:[0,1,4,6,9],xls:7,xlsx:1,xtick:0,xticklabel:7,y0_l:6,y_1:6,y_2:6,year:[1,3],yet:3,yield:9,ylabel:[0,1,4,6,7,9],ylim:[0,1,4,6,9],you:[1,2,3,4,7,8,9],your:[0,2,3,4,7,8,9],ytick:0,zero:[6,9],zlib:2},titles:["Agent-based modeling","Model assessment","Software installation","Introduction","Jupyter notebook","Mathematical modeling","Differential equations","Pandas","Project work","Python for this course","References"],titleterms:{"class":9,"function":9,"import":9,ODE:6,ODEs:6,Use:1,agent:0,analys:7,analysi:[1,6],anim:6,arrai:9,assess:1,auto:4,base:0,bonu:6,care:1,cell:4,code:4,collect:0,commun:3,complet:4,condit:9,content:3,correl:1,cours:9,creat:7,data:[0,1,7,9],datafram:7,dataset:1,deliver:3,diarrhoea:1,dictionari:7,differ:6,differenti:6,document:9,equat:6,essenti:4,euler:6,exampl:4,explicit:6,fdm:6,figur:9,finit:6,form:6,from:7,get:1,heat:6,help:9,implicit:6,insecticid:1,instal:2,introduct:3,iter:9,jupyt:4,keyboard:4,know:1,kutta:6,librari:6,malaria:1,manipul:7,materi:6,mathemat:5,mesa:0,method:6,model:[0,1,5,6],modul:9,mosquito:1,motiv:9,necess:9,net:1,notebook:4,numer:6,object:9,open:1,oper:9,ordinari:6,organ:3,orient:9,panda:7,plot:[0,6,7,9],program:9,project:8,propos:8,python:[7,9],refer:10,result:0,run:0,rung:6,shortcut:4,simul:0,softwar:2,solut:6,solver:6,some:9,spreadsheet:7,store:0,text:4,thi:9,through:6,tip:4,transfer:6,treat:1,type:9,unicef:1,wall:6,work:8,your:1}})

diff --git a/docs/agent.html b/docs/agent.html
@@ -485,19 +485,19 @@ N + 1 - \frac{2}{X} \sum_{i=1}^N (N+1-i) x_i
     </tr>
     <tr>
       <th>1</th>
-      <td>0.2456</td>
+      <td>0.2688</td>
     </tr>
     <tr>
       <th>2</th>
-      <td>0.3200</td>
+      <td>0.4296</td>
     </tr>
     <tr>
       <th>3</th>
-      <td>0.4224</td>
+      <td>0.4088</td>
     </tr>
     <tr>
       <th>4</th>
-      <td>0.4416</td>
+      <td>0.4736</td>
     </tr>
   </tbody>
 </table>
@@ -541,19 +541,19 @@ N + 1 - \frac{2}{X} \sum_{i=1}^N (N+1-i) x_i
     <tr>
       <th rowspan="4" valign="top">99</th>
       <th>46</th>
-      <td>0</td>
-    </tr>
-    <tr>
-      <th>47</th>
       <td>1</td>
     </tr>
     <tr>
+      <th>47</th>
+      <td>0</td>
+    </tr>
+    <tr>
       <th>48</th>
-      <td>2</td>
+      <td>3</td>
     </tr>
     <tr>
       <th>49</th>
-      <td>0</td>
+      <td>6</td>
     </tr>
   </tbody>
 </table>
@@ -574,11 +574,11 @@ Step AgentID
      3             1
      4             1
 ...              ...
-99   45            1
-     46            0
-     47            1
-     48            2
-     49            0
+99   45            0
+     46            1
+     47            0
+     48            3
+     49            6
 
 [5000 rows x 1 columns]
 </pre></div>
@@ -640,8 +640,8 @@ Step AgentID
 </div>
 </div>
 <div class="cell_output docutils container">
-<div class="output stream highlight-myst-ansi notranslate"><div class="highlight"><pre><span></span>Agent: 34
-Step: 46
+<div class="output stream highlight-myst-ansi notranslate"><div class="highlight"><pre><span></span>Agent: 49
+Step: 68
 </pre></div>
 </div>
 </div>

diff --git a/docs/python.html b/docs/python.html
@@ -599,10 +599,10 @@ Identity matrix:
 </div>
 </div>
 <div class="cell_output docutils container">
-<div class="output stream highlight-myst-ansi notranslate"><div class="highlight"><pre><span></span>  matmul:     1.4281 (ms)
+<div class="output stream highlight-myst-ansi notranslate"><div class="highlight"><pre><span></span>  matmul:     1.3609 (ms)
 </pre></div>
 </div>
-<div class="output stream highlight-myst-ansi notranslate"><div class="highlight"><pre><span></span>for loop:   715.2610 (ms)
+<div class="output stream highlight-myst-ansi notranslate"><div class="highlight"><pre><span></span>for loop:   734.0991 (ms)
 </pre></div>
 </div>
 </div>
